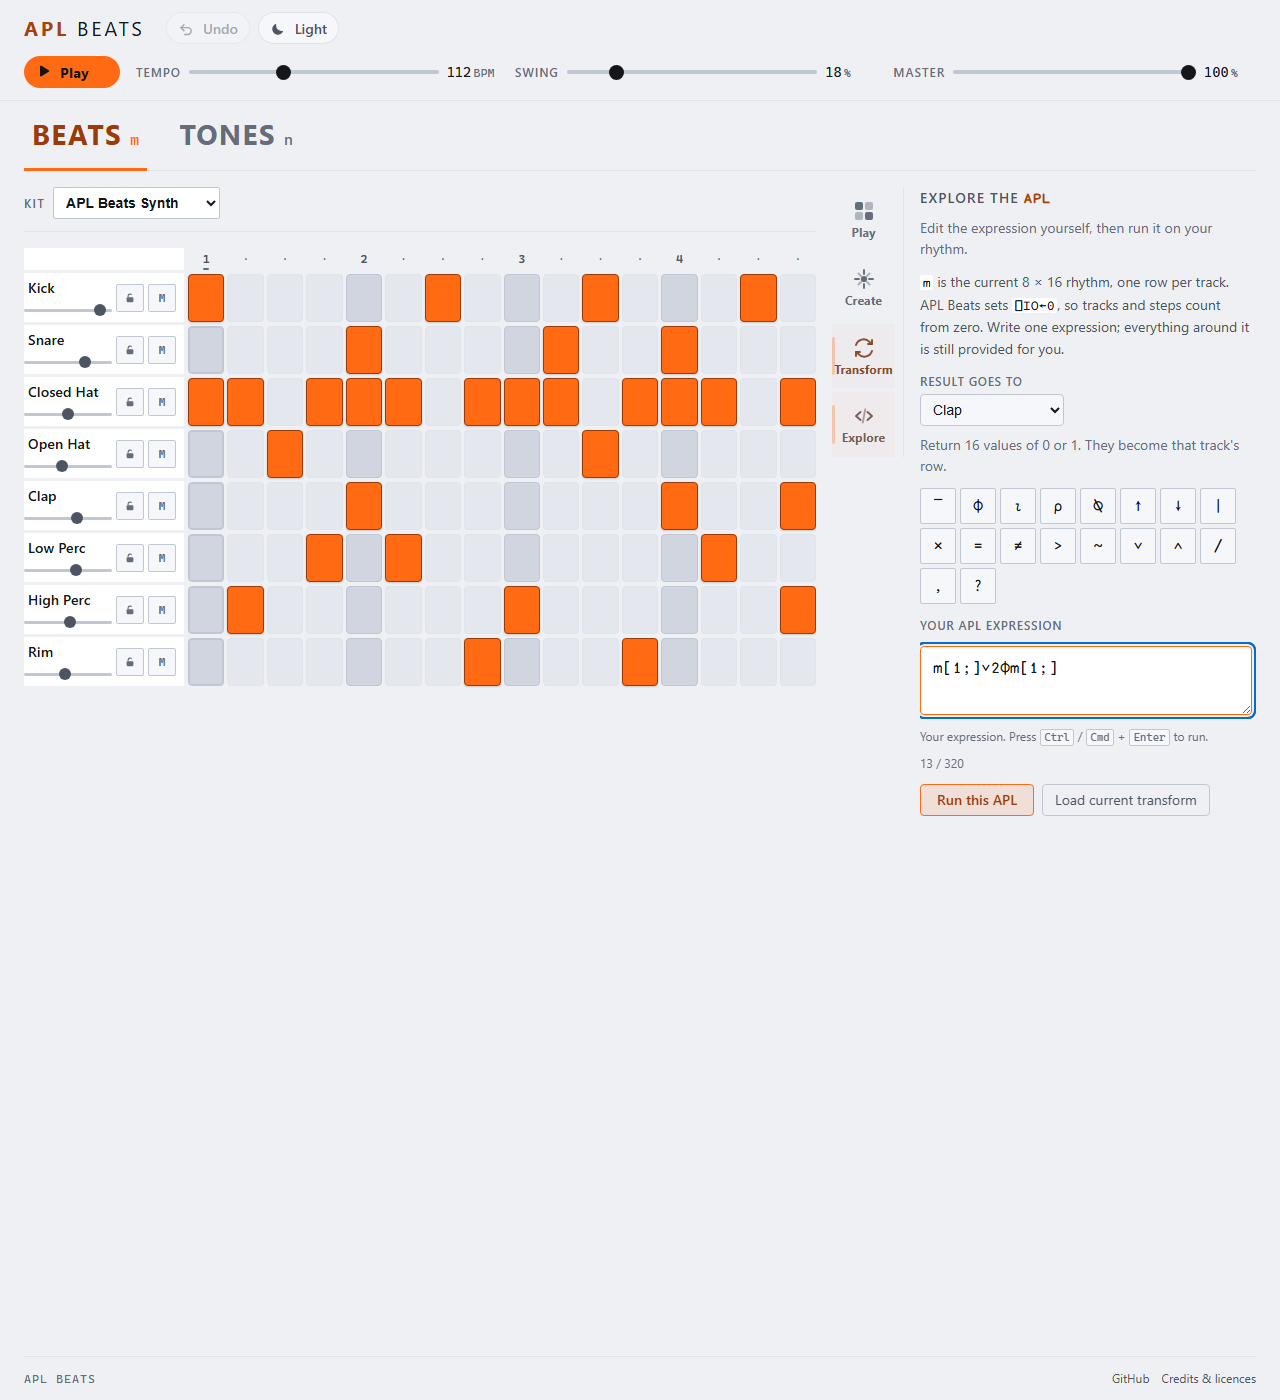
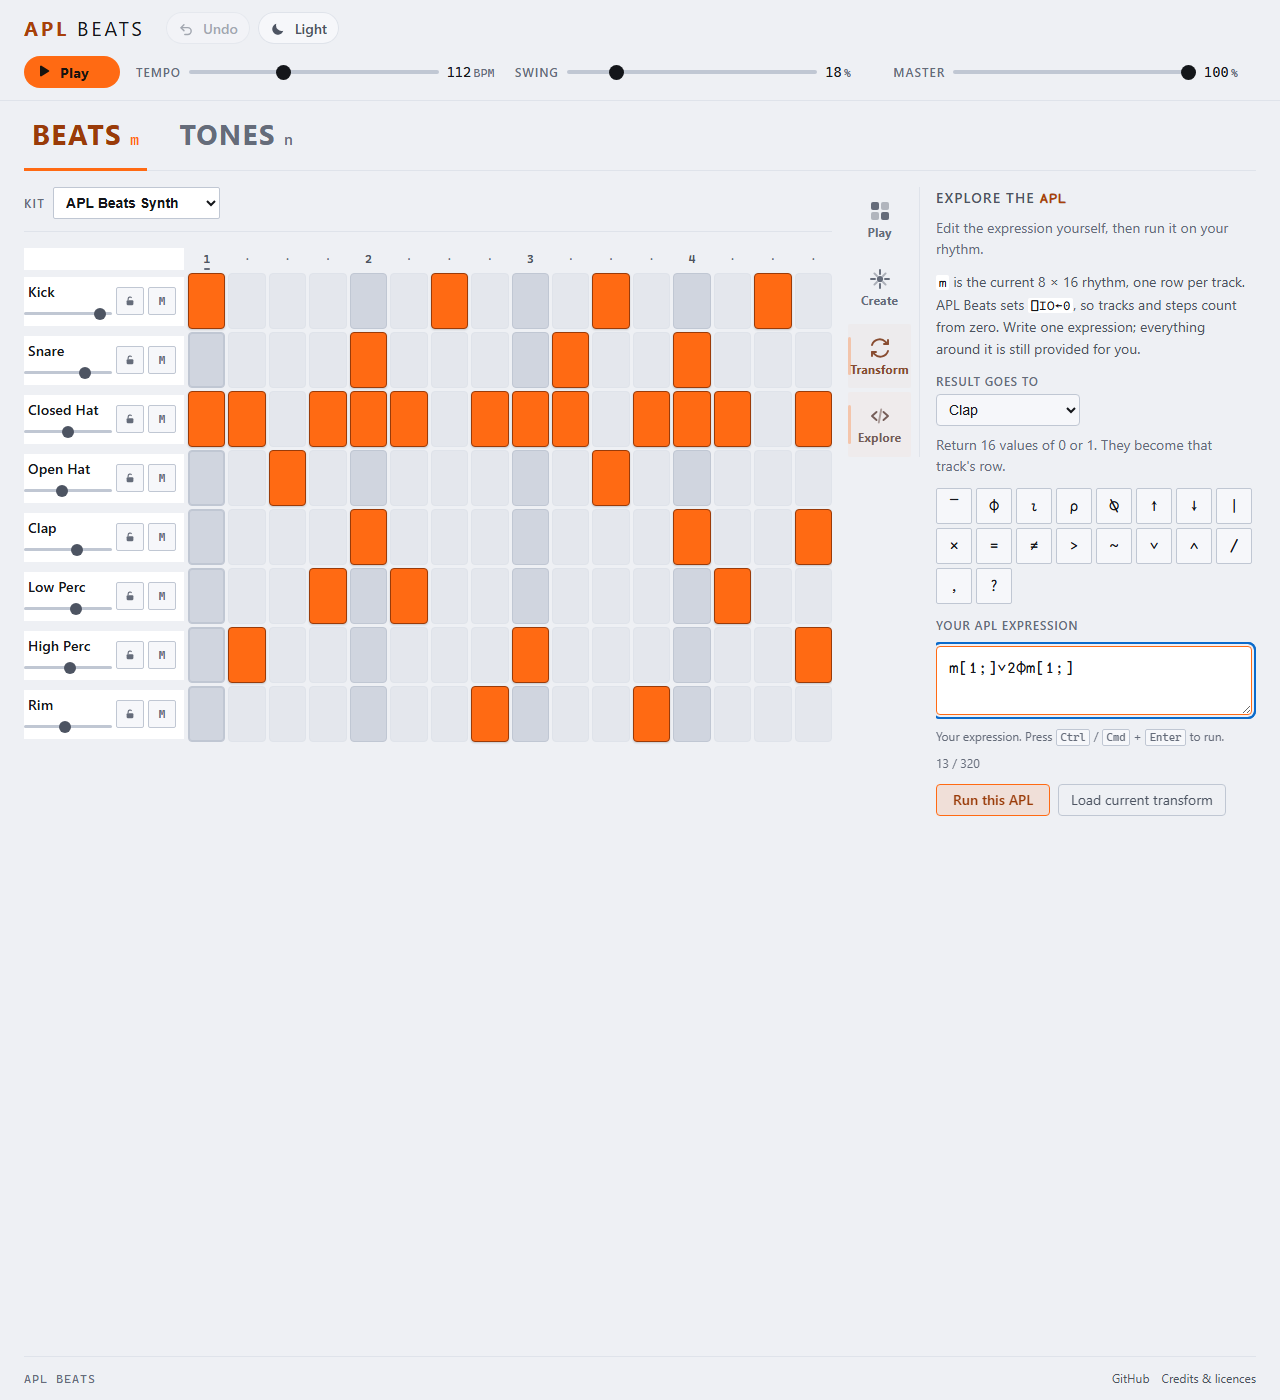
Grow the instruments into the window, with the cell filling the row
Two wrong answers, and this is the third. The first stretched the rows and
left the cells capped, so both grids grew tall while nothing in them grew
— bands of pads separated by voids. The second sized the row from the
cell, which made every part of the instrument small and left a third of
the window empty beneath it.

**Both halves have to be true at once: the row takes a share of the
available height, and the cell fills the row exactly.** Any height a cell
gives up becomes a strip of grid the pointer can land in without reaching
a step, which is what made drawing feel like hitting switches; any height
the row refuses becomes the void underneath.

Tones is no longer square, deliberately. A square cell ties twelve rows
of height to sixteen columns of width and forces the instrument into half
a screen. The *note* is the thing that has to be square, and it is —
86% of the row, so it grows with it. Measured: a 47 × 40 cell with a 34px
note at 1280 × 860, and a 79 × 62 cell with a 53px note at 1920 × 1080.
Nothing is left below the strip at either size.

The drawing surface is legible now without being heavy. With the whole
cell interactive and only a dot to show for it, the grid read as a scatter
of marks and it was not obvious where the 192 cells were. Three quiet
treatments: the sharp rows carry a faint tint so the keyboard's lanes
continue across the grid, every fourth column opens with a hairline so
the bar is countable, and a cell lights softly under the pointer. No
[…]

Changed region(s): [[0.0, 0.1229, 0.9688, 0.5529], [0.7188, 0.5221, 0.9375, 0.5836]]

diff --git a/src/components/ToneMatrix.module.css b/src/components/ToneMatrix.module.css
@@ -32,7 +32,7 @@
   flex: 1 1 auto;
   display: flex;
   flex-direction: column;
-  gap: var(--space-4);
+  gap: var(--space-2);
   min-width: 0;
   min-height: 0;
 }
@@ -45,7 +45,7 @@
  * instead of squeezing sixteen columns down to something a thumb cannot hit.
  */
 .scroller {
-  flex: 0 0 auto;
+  flex: 1 1 auto;
   display: flex;
   flex-direction: column;
   min-height: 0;
@@ -59,13 +59,13 @@
    * underneath it.
    */
   scroll-snap-type: x proximity;
-  scroll-padding-inline-start: 3.5rem;
+  scroll-padding-inline-start: var(--tone-keyboard);
   overscroll-behavior-x: contain;
   padding-bottom: var(--space-1);
 }
 
 .grid {
-  flex: 0 0 auto;
+  flex: 1 1 auto;
   display: flex;
   flex-direction: column;
   min-width: min-content;
@@ -76,12 +76,7 @@
 .ruler,
 .row {
   display: grid;
-  /*
-   * A ceiling on the column as well as the row, so the two stay in proportion. Without it a 1600px
-   * window draws 58px-wide cells against a 40px row, and the square note starts to look adrift in
-   * a letterbox.
-   */
-  grid-template-columns: 3.5rem repeat(16, minmax(var(--cell-min), 2.75rem));
+  grid-template-columns: var(--tone-keyboard) repeat(16, minmax(var(--cell-min), 1fr));
   align-items: stretch;
 }
 
@@ -147,22 +142,29 @@
  * see between steps is the dot being small, not a gutter.
  */
 .rows {
-  flex: 0 0 auto;
+  flex: 1 1 auto;
   display: flex;
   flex-direction: column;
   min-height: 0;
 }
 
 /*
- * A row is exactly as tall as its cells are wide.
+ * Twelve rows share the workspace's height, and the cell fills the row.
  *
- * This briefly stretched instead — twelve rows sharing the window's leftover height — which made
- * the matrix tall without making anything in it bigger: a small marker adrift in a fifty-pixel
- * band, and dead space above and below every cell that the pointer could land in without hitting
- * a step at all. The geometry comes from the sixteen columns now, and the height follows.
+ * Both halves of that sentence matter, and getting one without the other is what produced two
+ * wrong versions of this file. Stretching the rows while the cell kept a ceiling gave a small mark
+ * adrift in a tall band, with dead space around it that the pointer could land in and hit nothing.
+ * Sizing the row from the cell instead made every part of the instrument small and left a third of
+ * the window empty beneath it.
+ *
+ * So the row takes a share of what is available — between a floor that keeps a phone drawable and
+ * a ceiling that stops a very tall window turning a sequencer into a ladder — and the cell below
+ * occupies all of it. No gaps to distribute, because there are none: the whole row is the target.
  */
 .row {
-  flex: 0 0 auto;
+  flex: 1 1 auto;
+  min-height: 2.25rem;
+  max-height: 4rem;
 }
 
 /*
@@ -180,7 +182,7 @@
   place-items: center start;
   background: var(--stage);
   font-family: var(--font-mono);
-  font-size: var(--text-sm);
+  font-size: var(--text-base);
   font-weight: 700;
   letter-spacing: 0.01em;
   line-height: 1;
@@ -217,12 +219,12 @@
  * coloured labels.
  */
 .keySharp {
-  padding-inline-start: calc(0.75rem + var(--space-2));
+  padding-inline-start: calc(1.125rem + var(--space-2));
   color: var(--key-sharp-ink);
 }
 
 .keySharp::before {
-  inset: 0 0 0 0.75rem;
+  inset: 0 0 0 1.125rem;
   background: var(--key-sharp);
   box-shadow: inset -1px 0 0 var(--key-edge);
 }
@@ -242,37 +244,18 @@
   place-items: center;
   width: 100%;
   /*
-   * Square, and the sixteen columns decide how big.
+   * **The whole cell is the target**, and the cell is the whole row.
    *
-   * **The whole cell is the target.** That is the load-bearing sentence: the dot inside is a
-   * picture of an empty step and nothing else, and a stroke must begin anywhere in the square —
-   * a corner, an edge, well away from the marker. Sizing the button rather than the mark is what
-   * makes drawing feel like graph paper instead of like hitting switches.
+   * The dot inside is a picture of an empty step and nothing else; a stroke must begin anywhere in
+   * the rectangle — a corner, an edge, well away from the marker. Filling the row exactly is what
+   * guarantees that, because any height the cell gives up becomes a strip of grid the pointer can
+   * land in without reaching a step at all.
    *
-   * A floor at 24px keeps every cell clear of the WCAG 2.2 target minimum; a ceiling stops a very
-   * wide window drawing cells the size of coasters.
+   * Deliberately *not* square. A square cell would tie twelve rows of height to sixteen columns of
+   * width and leave the instrument occupying half a screen; the note inside is the thing that has
+   * to be square, and it is.
    */
-  aspect-ratio: 1;
-  height: auto;
-  /*
-   * Its own floor, deliberately not the drum pad's.
-   *
-   * Sharing `--step-min-height` looked tidy and was wrong: `min-height` beats `max-height` in the
-   * cascade, so the 48px floor meant for eight drum rows silently overrode the ceiling meant for
-   * twelve Tone rows, and the matrix went back to running past the bottom of the window. Eight
-   * rows and twelve rows want different numbers.
-   */
-  min-height: 1.5rem;
-  /*
-   * The ceiling exists so the whole instrument fits, strip included.
-   *
-   * Twelve square rows at the width a 1280px window gives is 552px, and with the header, the layer
-   * tabs, its own controls and the octave strip that runs past the bottom of an 860px laptop — so
-   * the one control the grid cannot replace ends up below the fold. Forty pixels a row keeps every
-   * part of the instrument on screen, and a note is still a 35px block rather than the 24px badge
-   * this started as.
-   */
-  max-height: 2.5rem;
+  height: 100%;
   padding: 0;
   border: 0;
   background: none;
@@ -292,15 +275,37 @@
 }
 
 /*
- * An empty step: a 5px square, and nothing else.
+ * The drawing surface, made legible without being made heavy.
+ *
+ * With the whole cell interactive and only a 7px dot to show for it, the grid read as sparse —
+ * somewhere between a diagram and a scatter of marks, and it was not obvious where the 192 cells
+ * actually were. Three very quiet treatments fix that without going back to bordered buttons: the
+ * sharp rows carry a faint tint so the keyboard's lanes continue across the grid, every fourth
+ * column opens with a hairline so the bar is countable, and a cell lights softly under the
+ * pointer so the target announces itself.
+ */
+.cellSharp {
+  background: color-mix(in srgb, var(--text-dim) 6%, transparent);
+}
+
+.beatStart {
+  box-shadow: inset 1px 0 0 var(--line);
+}
+
+.cell:hover {
+  background: color-mix(in srgb, var(--text-dim) 14%, transparent);
+}
+
+/*
+ * An empty step: a small square, and nothing else.
  *
  * Square rather than round, because the notes are square and a bar of mixed shapes reads as noise.
  * Dimmer on the sharp rows than the natural ones, so the horizontal lanes of the keyboard carry on
  * across the whole grid and the eye can follow a row without going back to the label.
  */
 .dot {
-  width: 7px;
-  height: 7px;
+  width: 8px;
+  height: 8px;
   border-radius: 1px;
   background: var(--text-dim);
   opacity: 0.55;
@@ -344,9 +349,18 @@
    * an annotation on the grid rather than a thing placed in it. At three quarters of the square it
    * reads as a sequencer block from across the room, and the octave has room to be legible.
    */
-  width: 76%;
+  /*
+   * Square, and as large as the cell reasonably allows.
+   *
+   * Height drives it so the block grows with the row, and `max-width` stops it overflowing a cell
+   * that is narrower than it is tall. Around 80% of the tighter dimension: enough that a note says
+   * "I occupy this step at this pitch" from across the room, with the gap left over still reading
+   * as a grid rather than as a solid bar.
+   */
+  height: 86%;
   aspect-ratio: 1;
-  height: auto;
+  width: auto;
+  max-width: 88%;
   border-radius: 3px;
   background: var(--accent);
   color: var(--on-accent);
@@ -430,8 +444,9 @@
 /*
  * Parked: a faint column, marking where Play will resume from rather than claiming to move.
  */
-.underPlayhead {
-  background: color-mix(in srgb, var(--text-dim) 10%, transparent);
+.underPlayhead,
+.cellSharp.underPlayhead {
+  background: color-mix(in srgb, var(--text-dim) 14%, transparent);
 }
 
 /*
@@ -443,7 +458,8 @@
  * it was findable if you were looking for it; the brief is that the rhythm should be readable
  * without listening, so it is now a third of the playhead colour.
  */
-.playing {
+.playing,
+.cellSharp.playing {
   background: color-mix(in srgb, var(--playhead) 30%, transparent);
 }
 
@@ -463,12 +479,19 @@
  * side of a rule. Kept together under the left of the matrix they read as what they are: the step
  * you have selected, and the two things you can do to it that the grid cannot.
  */
+/*
+ * The selected-step controls, attached to the matrix rather than floating under it.
+ *
+ * A hairline the width of the grid and a tight gap above: this is the piano roll's own strip, and
+ * with four spaces between it and the last row it read as a toolbar that happened to be nearby.
+ */
 .strip {
   display: flex;
   flex-wrap: wrap;
   align-items: center;
   gap: var(--space-3) var(--space-5);
-  padding-top: var(--space-1);
+  padding-top: var(--space-3);
+  border-top: 1px solid var(--line);
 }
 
 .selection {
@@ -568,11 +591,11 @@
 @media (max-width: 47.9375rem) {
   .ruler,
   .row {
-    grid-template-columns: 2.875rem repeat(16, minmax(var(--cell-min), 1fr));
+    grid-template-columns: var(--tone-keyboard) repeat(16, minmax(var(--cell-min), 1fr));
   }
 
   .scroller {
-    scroll-padding-inline-start: 2.875rem;
+    scroll-padding-inline-start: var(--tone-keyboard);
   }
 
   .keySharp {

diff --git a/src/styles/tokens.css b/src/styles/tokens.css
@@ -354,8 +354,8 @@
    * that is *between* two panels has to be narrow enough not to be a third one.
    */
   --rail-width: 4.5rem;
-  --apl-column: 28rem;
-  --apl-column-wide: 32rem;
+  --apl-column: 25rem;
+  --apl-column-wide: 28rem;
 
   /*
    * The application fills the window.
@@ -366,6 +366,14 @@
    * crush the grid.
    */
   --workspace-min: 30rem;
+
+  /*
+   * The Tone keyboard's width, in one place.
+   *
+   * The grid template and the scroller's `scroll-padding` both have to know it — they were two
+   * literals that happened to agree, which is a bug waiting for one of them to be edited.
+   */
+  --tone-keyboard: 4rem;
 }
 
 /*
@@ -388,7 +396,7 @@
      * monitor. "Sixteen steps never come off the screen" is the one rule the whole grid is built
      * around. The height floor is its own token, applied to the pad and to nothing else.
      */
-    --step-min-height: 3rem;
+    --step-min-height: 3.5rem;
 
     --text-xs: 0.75rem;
     --text-sm: 0.875rem;
@@ -454,14 +462,14 @@
      * of panel the name wins.
      */
     --track-label: 9.5rem;
-    --apl-column: 21rem;
+    --apl-column: 20rem;
   }
 }
 
 @media (min-width: 87.5rem) and (max-width: 99.9375rem) {
   :root {
     --track-label: 9.5rem;
-    --apl-column: 27rem;
+    --apl-column: 24rem;
   }
 }
 
